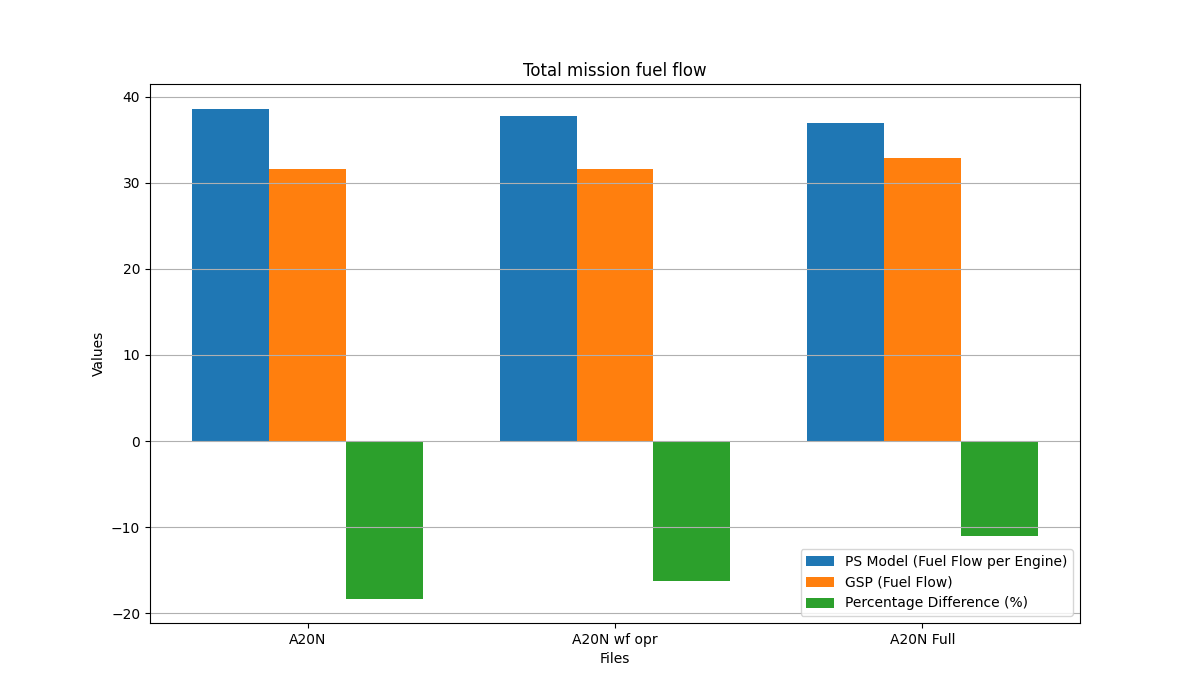
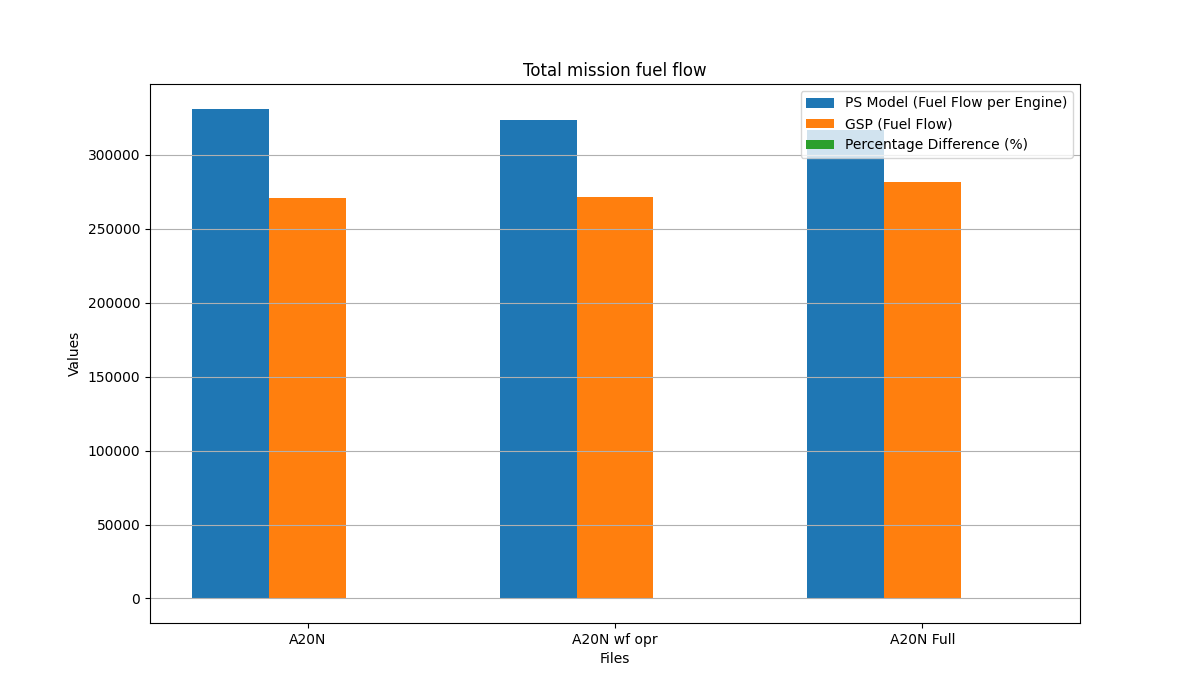
the fuel flow was multiplied by number of rows times 60

diff --git a/results_ps_model.py b/results_ps_model.py
@@ -25,8 +25,8 @@ for label, file in files.items():
             data[label] = df['percent_diff']
 
             # Calculate total sums and percentage difference for the entire mission
-            total_fuel_flow_per_engine = df['fuel_flow_per_engine'].sum()
-            total_fuel_flow_gsp = df['fuel_flow_gsp'].sum()
+            total_fuel_flow_per_engine = df['fuel_flow_per_engine'].sum() * 60 * len(df.index)
+            total_fuel_flow_gsp = df['fuel_flow_gsp'].sum() * 60 * len(df.index)
             percent_diff_total = 100 * (total_fuel_flow_gsp - total_fuel_flow_per_engine) / total_fuel_flow_per_engine
 
             # Store results
@@ -81,3 +81,7 @@ plt.grid(axis='y')
 # bar_chart_path = os.path.join(output_dir, "fuelflow_ps_model_bar.png")
 plt.savefig("figures/malaga/fuelflow_ps_model_sums.png", format='png')
 # print(f"Bar chart saved to {bar_chart_path}")
+
+summary_df = pd.DataFrame.from_dict(total_sums, orient='index')
+print("\nFuel Flow Summary by Mission:")
+print(summary_df)
